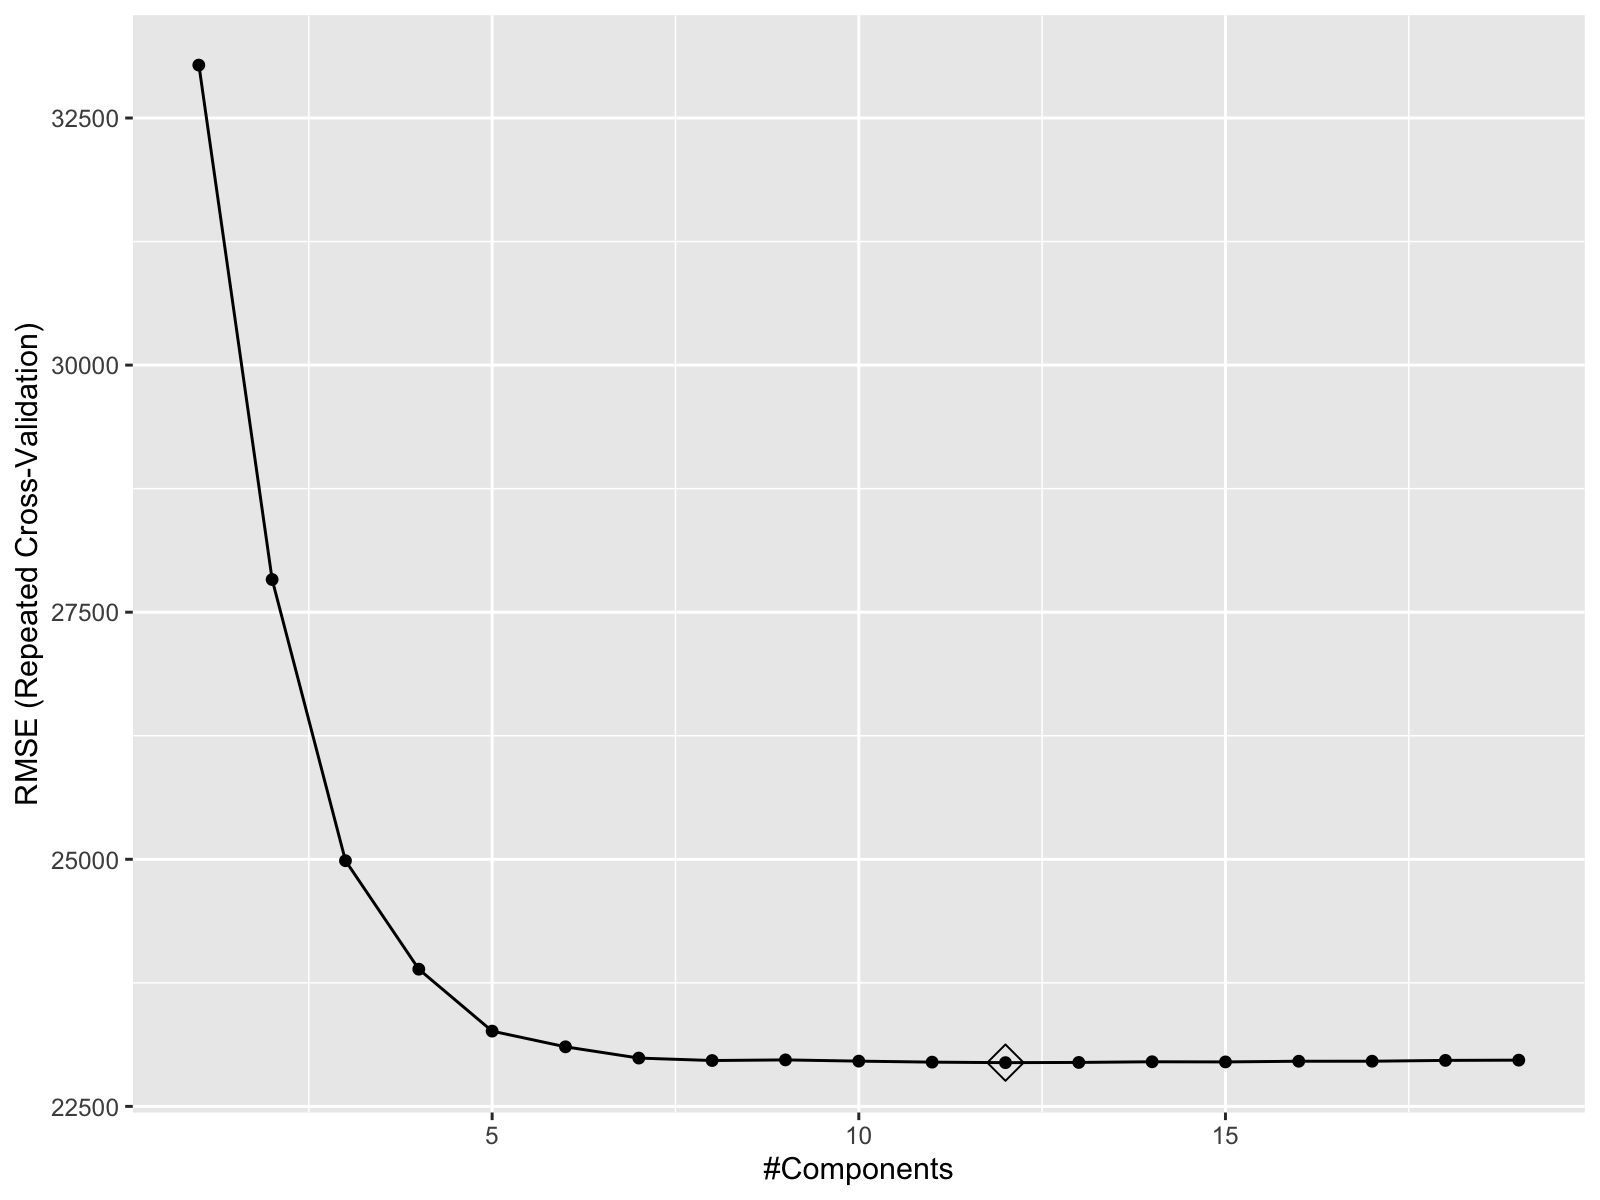
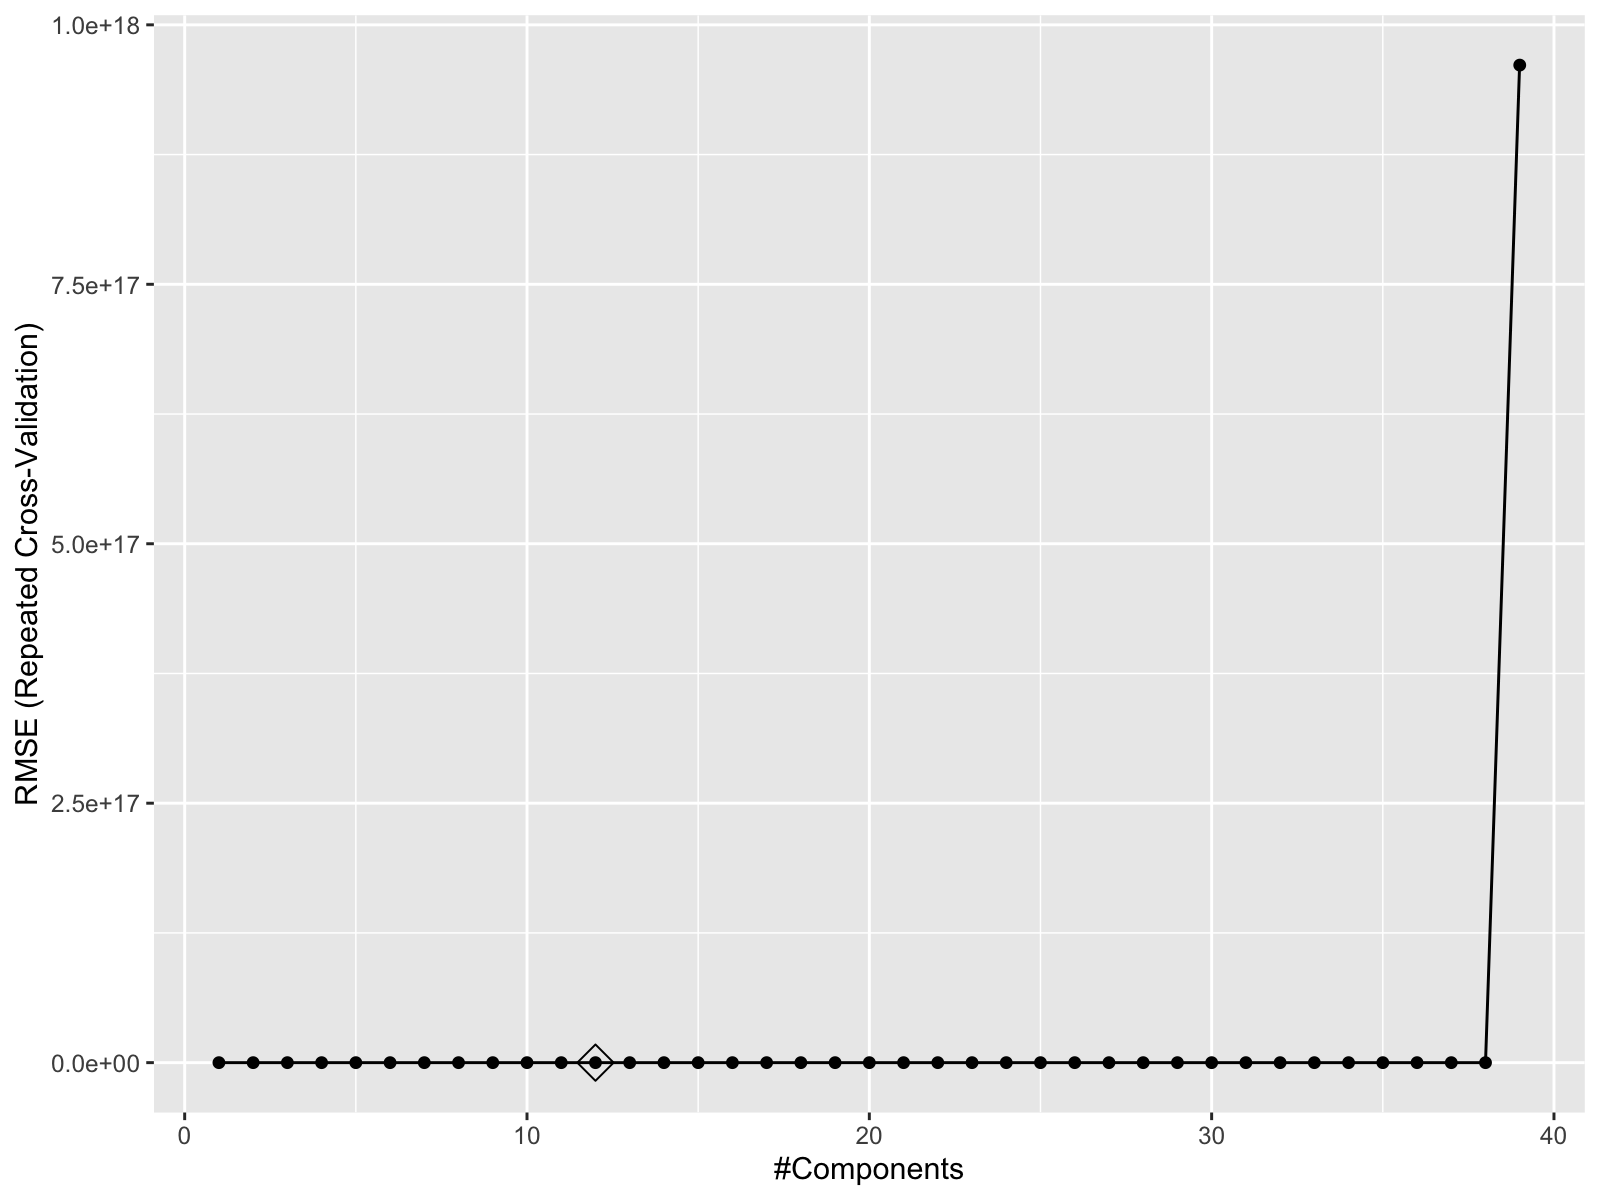
pls

diff --git a/p8106_hw1.md b/p8106_hw1.md
@@ -58,7 +58,8 @@ mean((pred_lm - y_test)^2)
 
     ## [1] 447287652
 
--   Potential disadvantage:
+-   Potential disadvantage: sensitive to outliers, limited to linear
+    relationships, only looks at the mean of the dependent variables
 
 ## Lasso
 
@@ -81,8 +82,12 @@ plot(fit_lasso, xTrans = log)
 <img src="p8106_hw1_files/figure-gfm/lasso-1.png" width="70%" />
 
 ``` r
-# fit_lasso$bestTune
+dim(fit_lasso$finalModel$beta)
+```
 
+    ## [1] 39 79
+
+``` r
 set.seed(8106)
 # test error
 pred_lasso = predict(fit_lasso, newdata = data.frame(x_test))
@@ -92,7 +97,7 @@ mean((pred_lasso - y_test)^2)
     ## [1] 441224318
 
 -   test error: 441224318
--   how many predictors:
+-   how many predictors: 79
 
 ## Elastic net
 
@@ -132,9 +137,16 @@ mean((pred_enet - y_test)^2)
 
 ``` r
 set.seed(8106)
-fit_pls = train( x_train, y_train,
+
+dim(x_train)
+```
+
+    ## [1] 1440   39
+
+``` r
+fit_pls = train(x_train, y_train,
                  method = "pls", 
-                 tuneGrid = data.frame(ncomp = 1:19),
+                 tuneGrid = data.frame(ncomp = 1:39),
                  trControl = ctrl1,
                  preProcess = c("center", "scale"))
 
@@ -151,7 +163,7 @@ mean((pred_pls - y_test)^2)
     ## [1] 449622718
 
 -   test error: 449622718
--   how many components:
+-   39 components are included in PLS model
 
 ## Models comparison
 
@@ -203,4 +215,4 @@ bwplot(resamp, metric = "RMSE")
 
 -   I would choose PLS to predict the response (sale prices), because
     PLS model has the lowest RMSE in both median(22827.16) and
-    mean(22942.48.
+    mean(22942.48).
